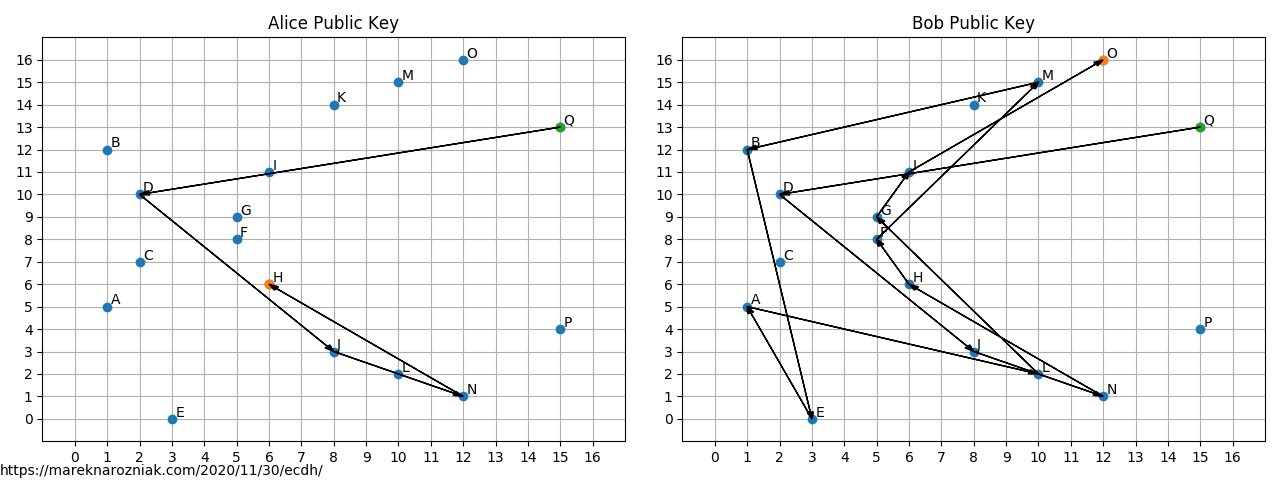
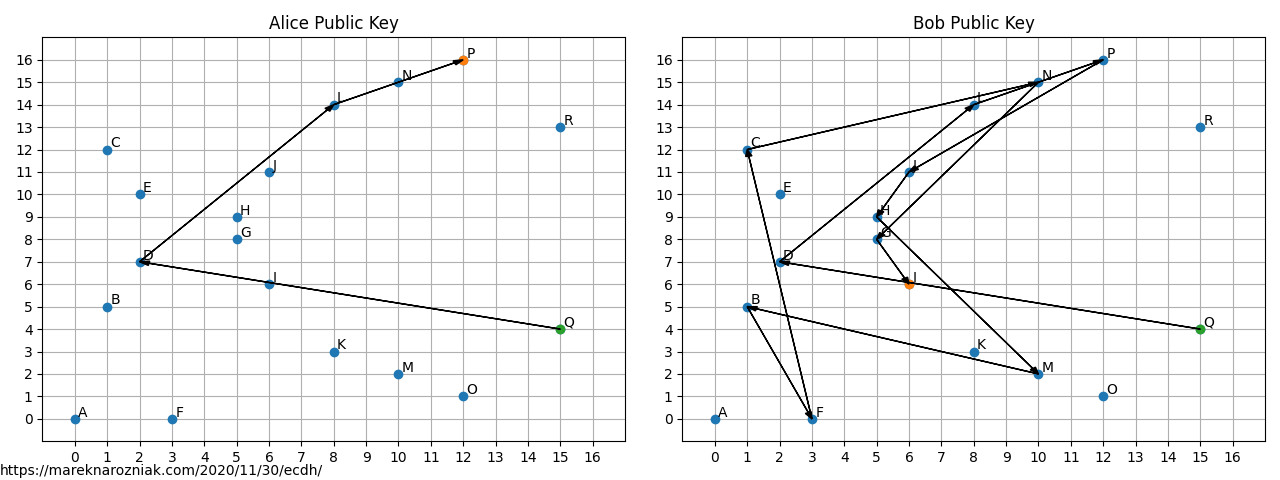
covered ECDSA with a small tutorial and example

diff --git a/_posts/en/2021-03-16-ecdsa.md b/_posts/en/2021-03-16-ecdsa.md
@@ -1,0 +1,151 @@
+---
+layout: post
+title: Eliptic Curve Digital Signature Algorithm
+tags: [Cryptography, Python, Signatures, ECC]
+description: Introduction and a toy example of ECDSA signature
+image: /assets/figures/png/ecdsa/signatures.png
+lang: en_US
+lang-ref: ecdsa
+katex: true
+gist: https://gist.github.com/marekyggdrasil/11df1679132a36c8f3ab14a6dfcba416
+---
+
+It is not going to be the first time we will discuss the subject related to the eliptic curve over finite field. This time the subject of our discussion is going to be the idea of a digital signature, which will help us continue to build the foundations for even more advanced ideas. Previously we have discussed the [Diffie-Hellman key exchange over eliptic curve](/2020/11/30/ecdh/) which permits two parties, Alice and Bob, to come up with a shared secret over public channel without risking the potential eavesdropper to know the secret. Later, we introduced the [`aggrematon` machine](/2021/01/27/aggrematon/) which also heavily, but indirectly relied on the eliptic curve. Along with the [hashing functions](/2020/12/29/hash/) we have complete foundations to start discussing the digital signatures.
+
+Most of us associates the word `signature` with some sort of ink blob on the piece of paper. Digital signature is not quite the same idea but both do have at least one thing in common - the signing party has interacted with the signed document. If you have not yet seen the [ecdh article](/2020/11/30/ecdh/) it is highly recommended to get back to it and read it first as this article will not go in depth of many concepts introduced there. It is going to be assumed you are familiar with ideas such as *private key*, *public key* or *hashing function*.
+
+Assuming we can just make a blob on the piece of paper, why do we even need a digital signature? The answer to that question can be found in the paper {% cite Diffie1976 --file references %} by Diffie and Hellman themselves. Briefly, it is because the digital era has arrived. In simple terms what they meant was that the computers are sufficiently widely available and telecommunication channels are used often enough that the need for digital equivalent of a signature is a necessity. According to Diffie and Hellman, such signature in their own words
+
+> It must be easy for anyone to recognize the signature as authentic but impossible for anyone other than legitimate signer to produce.
+
+The way such signature works is given some digital information, such as a file, it is possible to generate another digital information which is unique to that file and can only be produced by particular individual, for instance owner of a particular public key. Presence of such digital signature confirms that owner of the private key corresponding to the public key has generated a signature given this particular document.
+
+Before we dive into the realm of the eliptic curves again and start signing documents like a congressman on coke, let us discuss the brief history of the idea. The *eliptic curve digital signature* (ECDSA) is not the first *digital signature algorithm* (DSA). Initially called a *digital signature system* (DSS) and proposed for the government use and standarized in {% cite fips1994186 --file references %}. As a response to that Vanstone proposed what we today call ECDSA {% cite vanstone1992responses --file references %}. Vanstone proposed to adapt ElGamal signature scheme {% cite Elgamal1985 --file references %} to the ECC. At that time the idea of eliptic-curve has been well established by Koblitz and Miller {% cite Koblitz1987 Miller --file references %}. I am not going to touch the subject of DSA at all because I am principally interested in eliptic curves. They are widely used today and this is not a history article.
+
+The ECDSA digital signature is a tuple of integers
+
+$$
+\left< s, x_R \right> \tag{I}
+$$
+
+where $$ X_R $$ is the $$ x $$-coordinate of the eliptic curve point $$ R = k G $$. Then $$ k $$ is the *random nonce* and $$ s $$ is the *signature proof*
+
+$$
+s = k^{-1} e + d r \tag{II}
+$$
+
+where $$ e $$ is hashed message, $$ G $$ the *generator point* and $$ d $$ is the *private key*. As a quick reminder, the *public key* is $$ P = G d $$. The digital signature described above satisfies
+
+$$
+s k = e + k G d \tag{III}
+$$
+
+and can be verified by calculating
+
+$$
+R^\prime = e s^{-1} G + r s^{-1} P \tag{IV}
+$$
+
+and signature is valid if and only if
+
+$$
+x_R = x_{R^\prime} \tag{V}
+$$
+
+Now assuming the only way of computing $$ s $$ is $$ (\text{II}) $$ then producing fake signature from the public key $$ p $$ would require to solve the *eliptic curve discrete logarithm problem* (ECDLP). However it is not known if $$ (\text{II}) $$ is the only way of producing the signature proof, thus there is no formal proof difficulty of breaking ECDSA is equivalent of ECDLP. However, ECDSA has been used for decades extensively, including Bitcoin and Ethereum and there has been no incident of forging a signature to produce a fake transaction and stealing cryptographic coins. This provides an empirical evidence of security of ECDSA. To formally prove the security of ECDSA a different approach has been taken by Fersch {% cite Fersch2016 --file references %} based on bijective random oracle model. I am not an expert on it and I will just let you be the judges in this matter.
+
+Another thing to mention is that $$ k $$ does not necessarily need to be random, it could be deterministically chosen based on the $$ e $$ value and the private key as specified in [RFC6979](https://tools.ietf.org/html/rfc6979#section-3.2). That would be the deterministic-ECDSA variant.
+
+Now let us prepare a little example demonstrating this concept. We are going to re-use most of the code from [Diffie-Hellman key exchange over eliptic curve](/2020/11/30/ecdh/) article with same size of the finite fields. We are also going to design an extremely insecure hash function which yields a hash which is an integer that in range of that finite fields size $$ p = 17 $$.
+
+```python
+def add_digits(num, p=17):
+    return (num - 1) % p + 1 if num > 0 else 0
+
+def hashtard(m, p=17):
+  hash = hashlib.sha256(str.encode(m))
+  num = int.from_bytes(hash.digest(), 'big')
+  num = add_digits(num, p=p-1)
+  return num
+```
+
+The hashing function above is extremely insecure as it easily leads to collisions. Our example is meant to be small so the hash values need to fit in the size of the finite field $$ \mathbb{F}_p $$. To know more about security of hashing functions please check the [hashing functions](/2020/12/29/hash/) tutorial.
+
+A function that produces the signature based on $$ \text{II} $$ is
+
+```python
+def sign(e, k, d, Gx, Gy, n, p=17, a=0, b=7):
+    k1 = inverse(k, n)
+    _, _, r, _ = eccScalarMult(k, Gx, Gy, a, b, p)
+    s = np.mod(k1*(e + d*r), n)
+    return s, r
+```
+
+and of course we also need a method for verifying the signatures
+
+```python
+def verify(e, s, r, Gx, Gy, Px, Py, n, p=17, a=0, b=7):
+    s_ = inverse(s, n)
+    _, _, xr1, yr1 = eccScalarMult(np.mod(e*s_, n), Gx, Gy, a, b, p)
+    _, _, xr2, yr2 = eccScalarMult(np.mod(r*s_, n), Px, Py, a, b, p)
+    Rx, Ry = eccFiniteAddition(xr1, yr1, xr2, yr2, a, b, p)
+    if Rx == r:
+        return True, Rx
+    return False, Rx
+```
+
+The order $$ n $$ of the finite field $$ \mathbb{F}_p $$ for the generator point $$ G $$ can be found by running
+
+```python
+group = generateGroup(Gx, Gy, a, b, p)
+n = len(group)
+```
+
+Imagine Alice and Bob are friends for a long time, they know each others public keys (as all close friends do!). Their public (and private) keys are visualized as follows in the finite field $$ \mathbb{F}_p $$ with $$ p = 17 $$
+
+{% include figure.html url="" fll="/assets/figures/png/ecdsa/ecdsa_knowledge.png" alt="visualization of public and private keys for the ECDSA signature from perspective of each of the participants" %}
+
+As indicated, everyone knows own private key (visualized as arrow path in the $$ \mathbb{F}_p $$) and everyone else's public keys which are points in $$ \mathbb{F}_p $$. Even the random eavesdropper knows the public keys!
+
+One morning Alice wakes up and finds two letters from Bob. The first one with very disturbing content
+
+> Dear Alice,
+>
+> I am not sure where I am. It seems to be some kind of prison or a labor camp. I managed to convince someone to sneak out and send this letter to you. Please please please try to find me.
+>
+> Miss you,  
+> Bob  
+> Signature: <7, 2>
+
+while the other one was not disturbing but strange, nothing like the Bob she remembers
+
+> Dear Alice,
+>
+> I am currently taking long holidays in a beautiful place. The food is delicious here. I spend most of my time having fun with new friends. The means of communications are not perfect here so I do not send you my address. Please do not try to reach me, I will message you first.
+>
+> All the best,  
+> Bob  
+> Signature: <4, 5>
+
+Fortunately each of the letters is accompanied with the ECDSA signature and Alice still has Bob's public key from the old days. She decided to check both of the signatures $$ x_{R^\prime} $$ and compare it with $$ x_R $$ values. Alice computes the hash of both messages using `e=hashtard(message)` and then runs `verify(e, s, r, Gx, Gy, Px, Py, n)`, the output she finds is astonishing
+
+```
+Bob's signature on message 1 is valid? True
+Bob's signature on message 2 is valid? False
+```
+
+it seems like poor Bob is in trouble! Let's hope she will manage to arrange an appropriate rescue mission for him. The signatures can be visualized as follows
+
+{% include figure.html url="" fll="/assets/figures/png/ecdsa/signatures.png" alt="visualization of the ECDSA signatures as a series of 1D plots" %}
+
+where we recognize the valid signature by $$ x_R = r = r^\prime = x_{R^\prime} $$ on the horizontal line. The third signature is an example of forged signature which was generated after brute-forcing the Bob's private key. This is easily doable for such a small finite field.
+
+The small size of the finite field $$ \mathbb{F}_p $$ is very problematic. The hash function is not collision resistant and Bob's kidnappers could just sit during coffee break and produce a letter that would eventually match one of older signatures. Another problem is the random nonce $$ k $$, as you may have noticed it is not randomly generated but set explicitly in `sign(e, k, d, Gx, Gy, n)`. The reason for that is this number needs to admit a modular inverse and for small numbers it might often occur to violate condition of greatest common divisor being equal to $$ 1 $$.
+
+Such a digital signature has a wide range of applications. It makes it possible to confirm the message is approved by the owner of particular public key. One of the examples where it comes to use is processing the Bitcoin transactions, miners would not append transaction to the block if the digital signature would not match. It is a part of their consensus algorithm in which wallet address is in fact a public key.
+
+This is a toy example meant to be easy to visualize. To play more with such examples I recommend trying out the [mini_ecdsa](https://github.com/qubd/mini_ecdsa) which is way more nicely written than my ECC code. I would like to thank [@qubd](https://github.com/qubd), the author of `mini_ecdsa` for [an interesting discussion](https://github.com/qubd/mini_ecdsa/issues/8) regarding generating valid signatures over small finite field. His library has been extremely helpful to me as I was using it as a reference to compare and debug the output values of mine. I would also like to recommend [a talk on digital signatures by Elichai Turkel](https://youtu.be/XKatSGCZ-gE) which may inspire you to go beyond ECDSA and try Schnorr signatures instead! There also is a resource which I usually recommend, [the tutorial on ECDSA in the Practical Cryptography for Developers book](https://wizardforcel.gitbooks.io/practical-cryptography-for-developers-book/content/digital-signatures/ecdsa-sign-verify-messages.html). If you are interested in running the code of this exact implementation please check [this public gist repository](https://gist.github.com/marekyggdrasil/11df1679132a36c8f3ab14a6dfcba416) for the complete source code!
+
+That's it for this tutorial, if you find errors or have some suggestions for improvements do not hesitate to tweet me!
+
+{% bibliography --file references --file wiki --cited %}

diff --git a/_posts/en/2020-11-30-ecdh.md b/_posts/en/2020-11-30-ecdh.md
@@ -1,7 +1,7 @@
 ---
 layout: post
 title: Elliptic Curve Cryptography and Diffie-Hellman Key Exchange
-tags: [Tutorial, Python, Cryptography]
+tags: [Tutorial, Python, Cryptography, ECC]
 description: Basic examples of Elliptic Curve Cryptography. Explanation of finite fields and simple modular arithmetic. Small example of Diffie-Hellman key exchange and brute-forcing small key.
 lang: en_US
 lang-ref: ecdh
